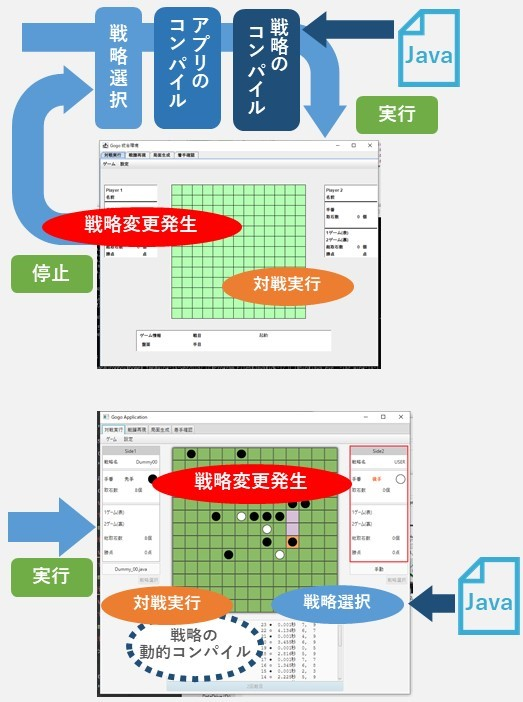
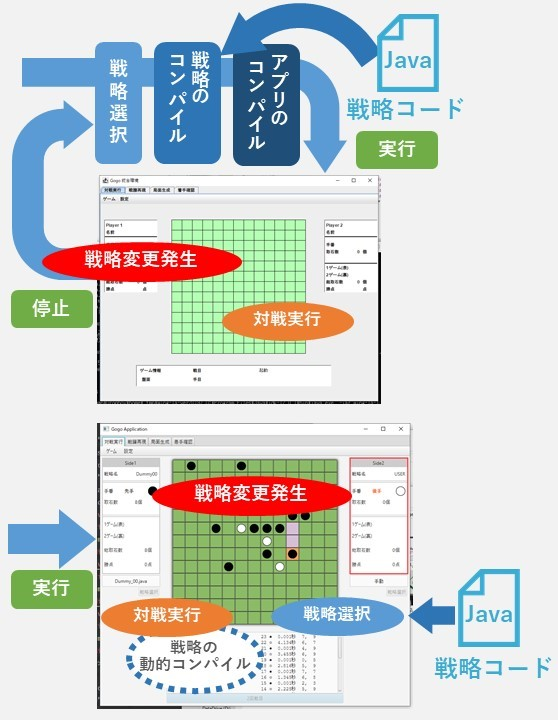
change/change contents in work2. delete/delete needless images. fix/fix "p2_img6.jpg" image in work2.

diff --git a/index.html b/index.html
@@ -224,7 +224,7 @@
                       
                     </tbody>
                   </table>
-                  <p><a href="#" class="readmore">Products</a></p>
+                  <p><a href="#works-section" class="readmore">Products</a></p>
                 </div>
               </div>
               <div class="col-md-6 col-lg-4 mb-4 mb-lg-4">
@@ -265,7 +265,7 @@
                         </td>
                       </tr>
                   </table>
-                  <p><a href="#" class="readmore">Products</a></p>
+                  <p><a href="#work2" class="readmore">Products</a></p>
                 </div>
               </div>
               <div class="col-md-6 col-lg-4 mb-4 mb-lg-4">
@@ -371,7 +371,7 @@
                         </td>
                       </tr>
                   </table>
-                  <p><a href="#" class="readmore">Products</a></p>
+                  <p><a href="#work2" class="readmore">Products</a></p>
                 </div>
               </div>
     
@@ -561,7 +561,7 @@
             <img src="images/p1_img2.gif" alt="Image" class="freezeframe-gif img-fluid" class="img-fluid">
             <img src="images/p1_img3.jpg" alt="Image" class="img-fluid" class="img-fluid">
           </div>
-          <div class="col-lg-5 h-100 jm-sticky-top ml-auto">
+          <div class="col-lg-5 h-100 jm-sticky-top ml-auto" id="work1">
             <h3><span>グラフィクスを題材とした</span><span>Java演習システム<span></h3>
             <p class="keywords mb-0"><strong class="text-black">Keywords:</strong> オブジェクト指向プログラミング, Java, グラフィックスプログラミング, SpringBoot, Webベース</p>
             <p class="dev-period mb-5"><strong class="text-black">How long dev:</strong> 2018.6 - now</p>
@@ -601,9 +601,9 @@
             <img src="images/p2_img5.png" alt="Image" class="img-fluid" class="img-fluid">
             <img src="images/p2_img6.jpg" alt="Image" class="img-fluid" class="img-fluid">
           </div>
-          <div class="col-lg-5 h-100 jm-sticky-top mr-auto order-2 order-lg-1">
+          <div class="col-lg-5 h-100 jm-sticky-top mr-auto order-2 order-lg-1" id="work2">
             <h3><span>ボードゲームのローカル実行環境</span> <span>WinG-LA</span></h3>
-            <p class="keywords mb-0"><strong class="text-black">Keywords:</strong> ボードゲーム戦略, 継続的なプログラミング, Java, JavaFX, デスクトップアプリケーション</p>
+            <p class="keywords mb-0"><strong class="text-black">Keywords:</strong> ボードゲーム戦略, 継続的なプログラミング, Kotlin, TornadoFX, デスクトップアプリケーション</p>
             <p class="dev-period mb-5"><strong class="text-black">How long dev:</strong> 2018.5 - now</p>
             <div class="works-contents mb-4">
               <p>
@@ -613,10 +613,10 @@
                 改修に至った背景として，旧アプリ(右画像2: Swing版WinG-LA)は，学習者の戦略コードをアプリに組み込むためにJavaバイトコードとして配布していたため，実行までの工程が多く，戦略コードを変更するたびにコンパイル作業を行う必要があるため，学習と全く関係ない部分で学習者に負担が生じていました．加えて，ユーザビリティに関する問題がありました．
               </p>
               <p>
-                改修するにあたって，納期まで時間がなかったこと・実装は一人で行っていたことから，フルスクラッチが難しい問題がありました．そこで，旧アプリの一部を内部で動かすことにしました．しかし，旧アプリの設計手法がかなり古く，処理とビューの結合が密であったため，そのまま流用することができませんでした．この問題は新しく実装するモジュール群と旧アプリの利用したい部分の橋渡しをするアダプタークラスを実装することで解決しました．これにより，旧アプリの変更を最小に抑えることができ，安定した短期間での実装が可能となりました．演習では利用しませんが改修後も旧アプリの起動が可能になっています．
+                改修するにあたって，納期まで時間がなかったこと・実装は一人で行っていたことから，フルスクラッチが難しい問題がありました．そこで，旧アプリの一部を内部で動かすことにしました．しかし，旧アプリの設計手法がかなり古く，処理とビューの結合が密であったため，そのまま流用することができませんでした．この問題は新しく実装するモジュール群と旧アプリの利用したい部分の橋渡しをするアダプタークラスを実装することで解決しました．これにより，旧アプリの変更を最小に抑えることができ，安定した短期間での実装が可能となりました．演習では利用しませんが改修後も旧アプリの起動が可能になっています．開発期間の問題からKotlinを新たな実装にはKotlinを利用することにしました。
               </p>
               <p>
-                改修後のWinG-LAでは，GUIライブラリとしてJavaFXを利用しました．このライブラリを採用した理由として，ユーザビリティの問題を解決できることに加えて，処理とビューを完全に分離して実装でき，保守性の向上が期待できたからです．再コンパイル問題に関しては，戦略コードの動的コンパイルモジュールの実装することで解決しました．これにより，WinG-LAを実行形式であるjarファイルで配布できるようになり，説明の簡略化など教育者側の負担も減らすことができました．
+                改修後のWinG-LAでは，GUIライブラリとしてTornadoFXを利用しました．このライブラリを採用した理由として，ユーザビリティの問題を解決できることに加えて，JavaFX系の特徴として処理とビューを完全に分離して実装でき，保守性の向上が期待できたからです．再コンパイル問題に関しては，戦略コードの動的コンパイルモジュールの実装することで解決しました．これにより，WinG-LAを実行形式であるjarファイルで配布できるようになり，説明の簡略化など教育者側の負担も減らすことができました．
               </p>
               <p>
                 この改修について2018年7月に行われたゲーム学会第16回合同研究会でポスター形式で発表しました．令和1年度の演習においても，本アプリは利用されており，学生からの評価・要望を元に，新しい対戦形式の実装を行っています．
